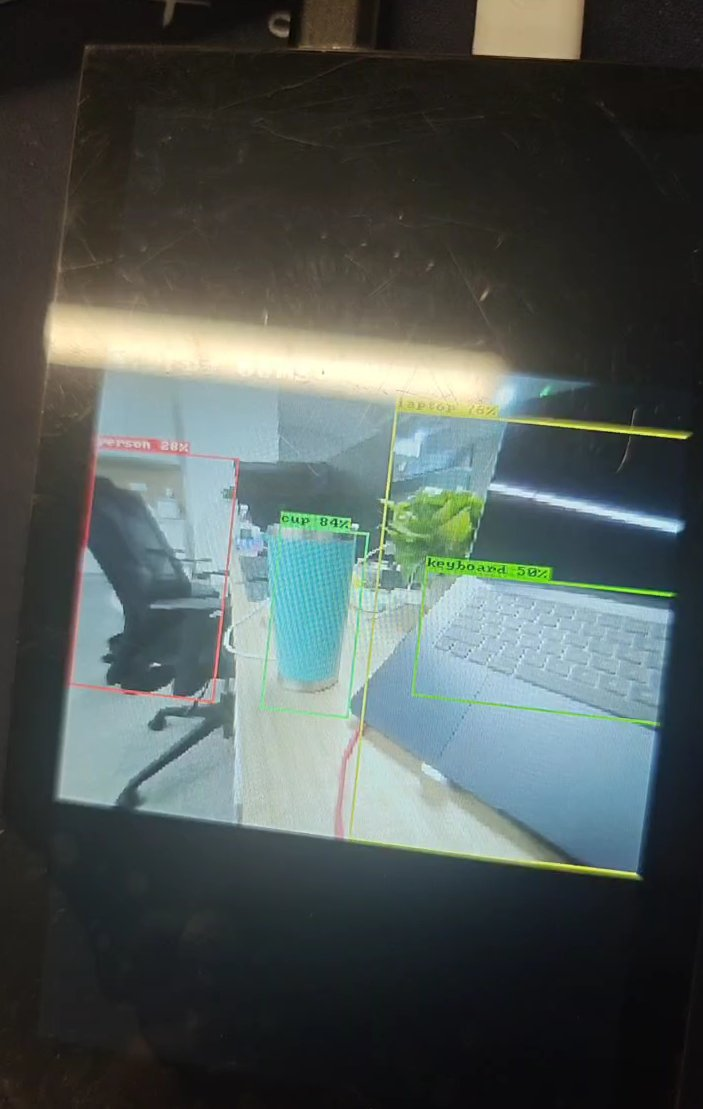
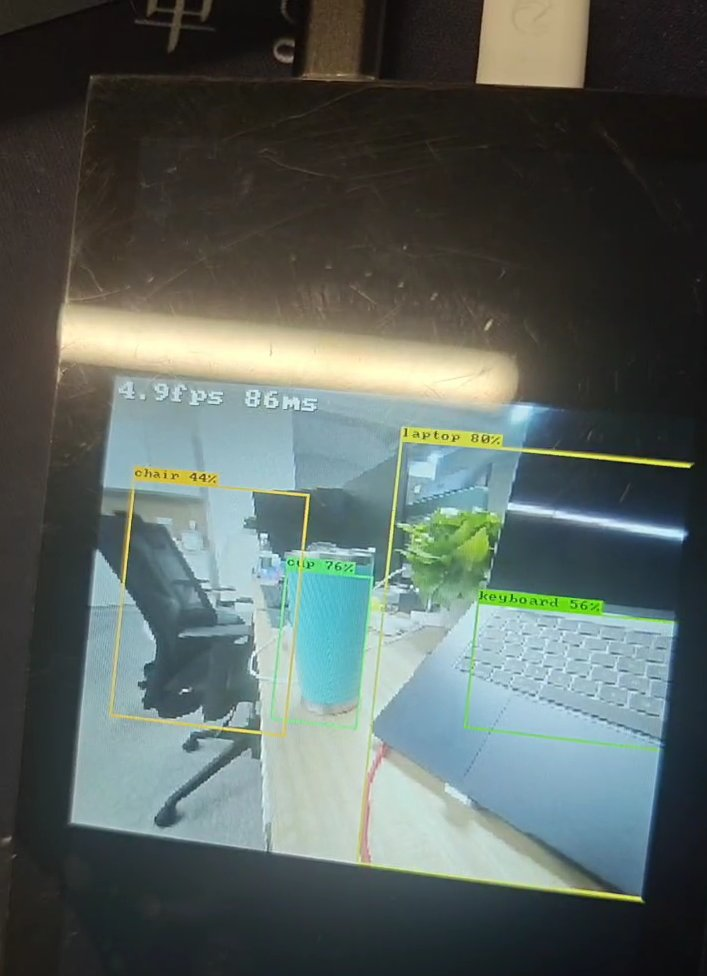
docs(rtak): describe the YOLOv8n model and demo in the project README
Add a model table (weights, classes, input/output shapes, INT8
quantization, where it runs), describe what the camera demo shows and
the serial timing line, and replace the demo photo with one showing
the frame rate and inference time.

diff --git a/projects/Edgi_Talk_CherryUSB/Edgi_Talk_M55_RTAK/README.md b/projects/Edgi_Talk_CherryUSB/Edgi_Talk_M55_RTAK/README.md
@@ -9,12 +9,42 @@ An M55 project for deploying models with RT-AK. It is a copy of `Edgi_Talk_M55_U
 
 The linker script, drivers and application code are the same as the original project.
 
+## Example model
+
+The demo model for this project is **YOLOv8n object detection**:
+
+| Item | Details |
+| --- | --- |
+| Model | Ultralytics `yolov8n.pt` pretrained weights, not retrained |
+| Classes | 80 COCO classes (person, cup, laptop, keyboard, chair, ...) |
+| Export | `yolo export model=yolov8n.pt format=litert imgsz=192` (or export ONNX) |
+| Input | `[1, 3, 192, 192]`, RGB, letterbox resize |
+| Output | `[1, 84, 756]`: 4 normalized box coordinates + 80 class scores, no NMS (NMS runs on the board) |
+| Quantization and compilation | `rtak convert` quantizes it to full INT8 with 100–300 calibration images, then compiles it with Arm Vela |
+| Runs on | Cortex-M55 + Ethos-U55 NPU; the model is in XIP flash and the inference arena in SOCMEM |
+
+See `examples/yolov8/README.md` in the RT-AK repository for exporting the model and preparing calibration data.
+
 ## Demo
 
-The example model is YOLOv8n object detection (Ultralytics pretrained, 80 COCO classes, 192×192 input): RT-AK quantizes it to INT8 and compiles it with Vela, and it runs on the Ethos-U55 NPU.
-The USB camera image is shown on the LCD; detected objects get colored boxes with the class name and confidence, and the frame rate is shown in the top-left corner:
+The USB camera image (320×240) is shown live on the LCD. Each frame is resized to 192×192 and run on the NPU; the board decodes the output, runs NMS and draws the results onto the image:
+
+* every detected object gets a colored box labeled with the class name and confidence (for example `cup 84%`);
+* the current frame rate is shown in the top-left corner of the LCD;
+* each frame is shown after its own detection finishes, so the boxes line up with the image. If an object is missed in a frame, its box is kept for up to 3 more detections to reduce flicker.
+
+A photo of an office desk, with `chair`, `cup`, `laptop` and `keyboard` detected at the same time. `4.9fps 86ms` in the top-left corner means about 4.9 detections per second, with an average of 86 ms per inference (NPU inference plus decoding and NMS):
 
 <img src="figures/yolov8-detect.jpg" style="zoom:60%;" />
+
+Once per second the serial terminal prints the frame rate and a timing breakdown, followed by each box (class, confidence ×1000, coordinates):
+
+```text
+[yolov8] x.x fps, N ms/frame = prepare N + infer N + other N ms, boxes N-N
+person 873/1000 [102,40,298,371]
+```
+
+`prepare` is resizing and quantization, `infer` is NPU inference plus decoding and NMS, and `other` is LCD display and waiting for the next camera frame.
 
 See section 5 for the steps.
 

diff --git a/projects/Edgi_Talk_CherryUSB/Edgi_Talk_M55_RTAK/README_zh.md b/projects/Edgi_Talk_CherryUSB/Edgi_Talk_M55_RTAK/README_zh.md
@@ -9,12 +9,42 @@
 
 链接脚本、驱动和应用代码与原工程相同。
 
+## 示例模型
+
+本工程的演示模型为 **YOLOv8n 目标检测**：
+
+| 项目 | 说明 |
+| --- | --- |
+| 模型 | Ultralytics `yolov8n.pt` 预训练权重，未重新训练 |
+| 类别 | COCO 80 类（person、cup、laptop、keyboard、chair 等） |
+| 导出 | `yolo export model=yolov8n.pt format=litert imgsz=192`（或导出 ONNX） |
+| 输入 | `[1, 3, 192, 192]`，RGB，letterbox 缩放 |
+| 输出 | `[1, 84, 756]`：4 个已归一化的框坐标 + 80 个类别分数，不含 NMS（NMS 在板上做） |
+| 量化与编译 | `rtak convert` 用 100–300 张校准图片量化为全 INT8，再经 Arm Vela 编译 |
+| 运行位置 | Cortex-M55 + Ethos-U55 NPU；模型放在 XIP Flash，推理工作区放在 SOCMEM |
+
+模型导出和校准数据的准备见 RT-AK 仓库 `examples/yolov8/README.md`。
+
 ## 运行效果
 
-示例模型为 YOLOv8n 目标检测（Ultralytics 预训练，COCO 80 类，输入 192×192）：由 RT-AK 量化为 INT8、经 Vela 编译后在 Ethos-U55 NPU 上推理。
-USB 摄像头画面显示在 LCD 上，检测到的目标用彩色框标出，框上显示类别名和置信度，左上角显示帧率：
+USB 摄像头（320×240）的画面实时显示在 LCD 上。每一帧缩放到 192×192 后送进 NPU 推理，在板上解码并做 NMS，结果画回原画面：
+
+* 每个检测到的目标都有一个彩色框，框上显示类别名和置信度（例如 `cup 84%`）；
+* LCD 左上角显示当前帧率；
+* 画面等本帧检测完再显示，框与画面对齐。某一帧漏检的目标，框最多再保留 3 次检测，减少闪烁。
+
+下图为办公桌场景的实拍，同时检测出 `chair`、`cup`、`laptop`、`keyboard`。左上角 `4.9fps 86ms` 表示每秒约检测 4.9 帧，单次推理（NPU 推理加解码和 NMS）平均 86 ms：
 
 <img src="figures/yolov8-detect.jpg" style="zoom:60%;" />
+
+串口每秒打印一行帧率和耗时拆分，并逐个打印检测框（类别、置信度 ×1000、坐标）：
+
+```text
+[yolov8] x.x fps, N ms/frame = prepare N + infer N + other N ms, boxes N-N
+person 873/1000 [102,40,298,371]
+```
+
+`prepare` 是缩放和量化，`infer` 是 NPU 推理加解码和 NMS，`other` 是 LCD 显示和等待下一帧摄像头画面的时间。
 
 操作步骤见第 5 节。
 
